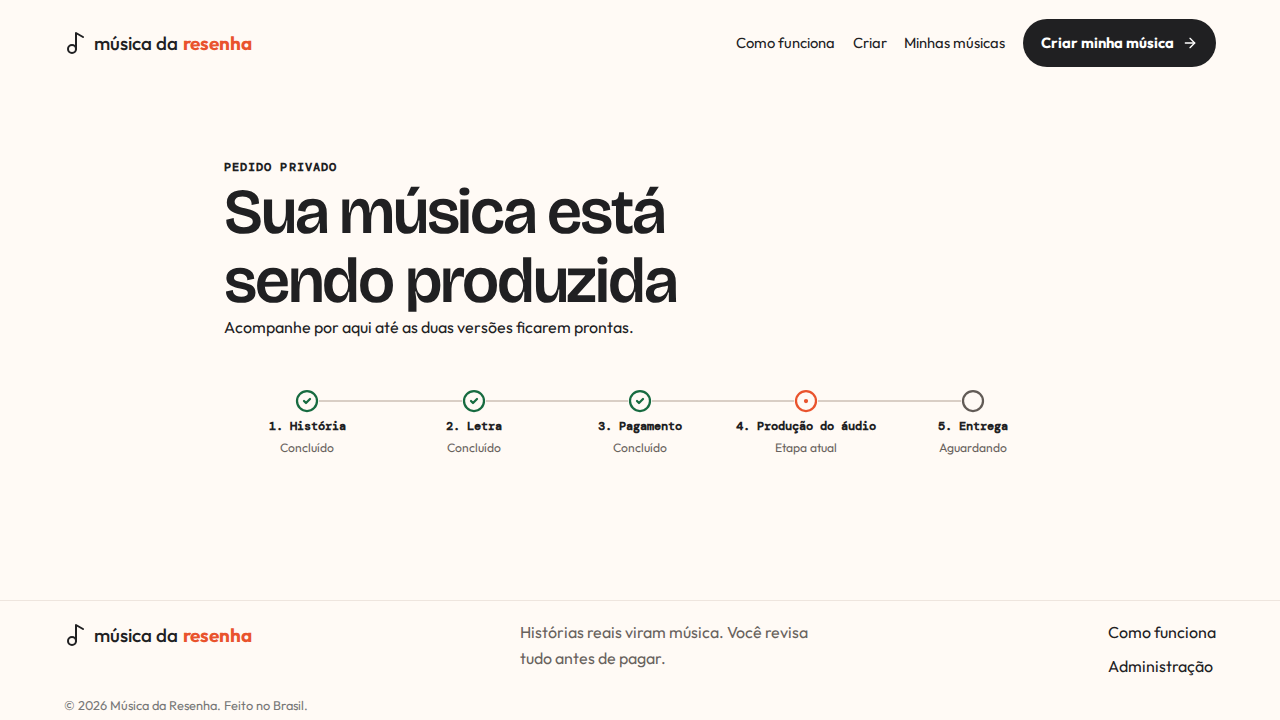
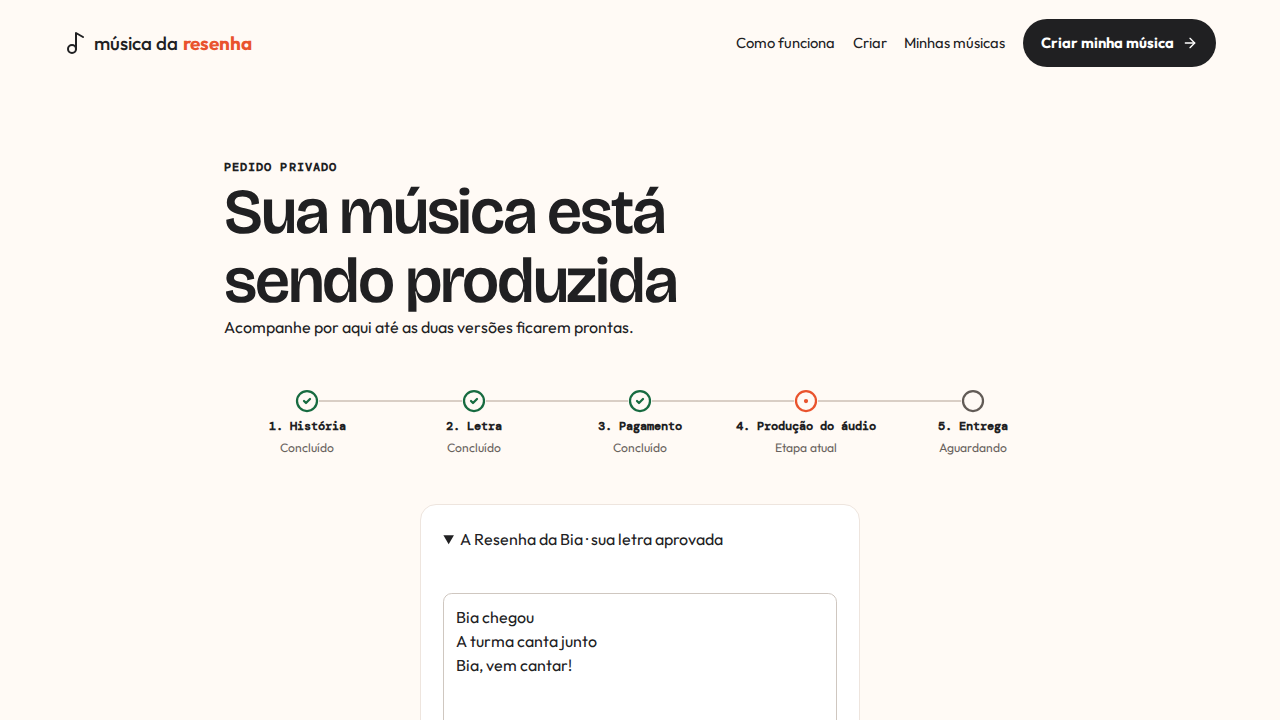
fix(web): complete visual audit evidence

diff --git a/apps/web/e2e/mvp-operable-t7.spec.ts b/apps/web/e2e/mvp-operable-t7.spec.ts
@@ -205,29 +205,137 @@ test('estado de erro mantém um único conteúdo principal e um único título',
 });
 
 test('captura os estados finais nos viewports da auditoria', async ({ page }) => {
+  const visualLyric = {
+    number: 1,
+    kind: 'approved',
+    approvedAt: '2026-09-04T12:00:00.000Z',
+    content: {
+      title: 'A Resenha da Bia',
+      fullLyrics: 'Bia chegou\nA turma canta junto\nBia, vem cantar!',
+    },
+  };
+  const visualOrders = {
+    'order-story-visual': { status: 'story_completed', lyrics: [], audio: [] },
+    'order-generating-visual': { status: 'lyrics_generating', lyrics: [], audio: [] },
+    'order-ready-visual': {
+      status: 'lyrics_ready',
+      lyrics: [{ ...visualLyric, kind: 'generated', approvedAt: null }],
+      audio: [],
+    },
+    'order-approved-visual': { status: 'lyrics_approved', lyrics: [visualLyric], audio: [] },
+    'order-production-visual': { status: 'audio_generating', lyrics: [visualLyric], audio: [] },
+    'order-delivered-visual': {
+      status: 'delivered',
+      lyrics: [visualLyric],
+      audio: [
+        { variant: 1, status: 'completed' },
+        { variant: 2, status: 'completed' },
+      ],
+    },
+    'order-failed-visual': { status: 'failed', lyrics: [visualLyric], audio: [] },
+  } as const;
+  await page.route('**/api/v1/**', (route) => {
+    const path = new URL(route.request().url()).pathname;
+    if (path.endsWith('/analytics/beacon')) return route.fulfill({ json: { accepted: true } });
+    if (path.endsWith('/products'))
+      return route.fulfill({
+        json: [{ type: 'friend_roast', name: 'Música da Resenha', priceCents: 4990, active: true }],
+      });
+    const publicId = path.match(/\/orders\/([^/]+)$/)?.[1];
+    const order = publicId ? visualOrders[publicId as keyof typeof visualOrders] : undefined;
+    if (order)
+      return route.fulfill({
+        json: {
+          order: { publicId, status: order.status, priceCents: 4990 },
+          lyrics: order.lyrics,
+          audio: order.audio,
+        },
+      });
+    return route.fulfill({ status: 404, json: { error: { message: 'Rota visual ausente' } } });
+  });
+
   await page.emulateMedia({ reducedMotion: 'reduce' });
   await page.setViewportSize({ width: 1280, height: 720 });
   await page.goto('/');
+  await expect(page.getByRole('heading', { name: /sua história merece/i })).toBeVisible();
   await page.screenshot({ path: '../../docs/audits/mvp-operavel/after/01-entrada-desktop.png' });
 
-  await page.route('**/api/v1/orders/order-visual-1', (route) =>
-    route.fulfill({
-      json: {
-        order: { publicId: 'order-visual-1', status: 'audio_generating', priceCents: 4990 },
-        lyrics: [],
-        audio: [],
-      },
-    }),
-  );
-  await page.goto('/pedido/order-visual-1');
+  await page.goto('/criar');
+  await expect(page.getByRole('heading', { name: /conte a resenha/i })).toBeVisible();
+  await page.screenshot({
+    path: '../../docs/audits/mvp-operavel/after/02-formulario-vazio-desktop.png',
+  });
+
+  await page.getByRole('button', { name: /gerar minha letra/i }).click();
+  await expect(page.getByLabel(/qual é a ocasião/i)).toHaveAttribute('aria-invalid', 'true');
+  await page.screenshot({ path: '../../docs/audits/mvp-operavel/after/03-validacao-desktop.png' });
+
+  await page.getByLabel(/para quem é a música/i).fill('Bia');
+  await page.getByLabel(/qual é a ocasião/i).fill('Aniversário');
+  await page.getByLabel(/^seu nome$/i).fill('Nina');
+  await page.getByLabel(/^seu e-mail$/i).fill('nina@example.test');
+  await page
+    .getByLabel(/histórias, apelidos/i)
+    .fill('Sempre chega cantando\nTodo churrasco vira show');
+  await page.getByLabel(/aceito os termos/i).check();
+  await expect(page.getByRole('status')).toContainText('Rascunho salvo');
+  await page.screenshot({
+    path: '../../docs/audits/mvp-operavel/after/04-formulario-preenchido-desktop.png',
+  });
+
+  await page.goto('/criar/letra?pedido=order-story-visual');
+  await expect(page.getByRole('button', { name: /criar letra agora/i })).toBeVisible();
+  await page.screenshot({
+    path: '../../docs/audits/mvp-operavel/after/05-geracao-pronta-para-iniciar-desktop.png',
+  });
+
+  await page.goto('/criar/letra?pedido=order-generating-visual');
+  await expect(page.getByRole('status')).toContainText('Criando sua letra');
+  await page.screenshot({
+    path: '../../docs/audits/mvp-operavel/after/06-geracao-loading-desktop.png',
+  });
+
+  await page.goto('/criar/letra?pedido=order-ready-visual');
+  await expect(page.getByRole('textbox', { name: /letra da música/i })).toBeVisible();
+  await expect(page.getByRole('button', { name: /salvar nova versão/i })).toBeInViewport();
+  await expect(page.getByRole('button', { name: /aprovar letra/i })).toBeInViewport();
+  await page.screenshot({
+    path: '../../docs/audits/mvp-operavel/after/07-revisao-letra-desktop.png',
+  });
+
+  await page.goto('/criar/checkout?pedido=order-approved-visual');
+  await expect(page.getByRole('button', { name: /pagar com mercado pago/i })).toBeVisible();
+  await page.screenshot({ path: '../../docs/audits/mvp-operavel/after/08-checkout-desktop.png' });
+
+  await page.goto('/pedido/order-production-visual');
   await expect(page.getByRole('heading', { name: /sendo produzida/i })).toBeVisible();
   await page.screenshot({
     path: '../../docs/audits/mvp-operavel/after/09-processamento-desktop.png',
   });
 
+  await page.goto('/pedido/order-delivered-visual');
+  await expect(page.getByRole('heading', { name: /música está pronta/i })).toBeVisible();
+  await page.screenshot({ path: '../../docs/audits/mvp-operavel/after/10-sucesso-desktop.png' });
+
+  await page.goto('/pedido/order-failed-visual');
+  await expect(page.getByRole('heading', { name: /problema na produção/i })).toBeVisible();
+  await page.screenshot({ path: '../../docs/audits/mvp-operavel/after/11-erro-desktop.png' });
+
+  await page.evaluate(() => window.localStorage.removeItem('resenha:my-orders'));
+  await page.goto('/minhas-musicas');
+  await expect(page.getByRole('heading', { name: /ainda não criou/i })).toBeVisible();
+  await page.screenshot({ path: '../../docs/audits/mvp-operavel/after/12-vazio-desktop.png' });
+
+  await page.evaluate(() => window.localStorage.removeItem('resenha:story-draft'));
   await page.setViewportSize({ width: 390, height: 844 });
   await page.goto('/');
+  await expect(page.getByRole('heading', { name: /sua história merece/i })).toBeVisible();
   await page.screenshot({ path: '../../docs/audits/mvp-operavel/after/13-entrada-mobile.png' });
   await page.getByRole('button', { name: 'Abrir menu' }).click();
+  await expect(page.getByRole('button', { name: 'Fechar menu' })).toBeVisible();
   await page.screenshot({ path: '../../docs/audits/mvp-operavel/after/14-menu-mobile.png' });
+
+  await page.goto('/criar');
+  await expect(page.getByRole('heading', { name: /conte a resenha/i })).toBeVisible();
+  await page.screenshot({ path: '../../docs/audits/mvp-operavel/after/15-formulario-mobile.png' });
 });

diff --git a/apps/web/src/styles.css b/apps/web/src/styles.css
@@ -488,7 +488,7 @@ h2 {
 }
 .lyrics-editor {
   width: 100%;
-  min-height: 430px;
+  min-height: clamp(240px, 38vh, 430px);
   line-height: 1.5;
   margin: 1.5rem 0;
 }

diff --git a/docs/audits/mvp-operavel/final.md b/docs/audits/mvp-operavel/final.md
@@ -8,14 +8,25 @@ Data: 2026-09-04. Escopo: jornada pública, borda HTTP, retomada assíncrona e o
 
 ## Comparação visual
 
-As imagens usam os mesmos estados e viewports do baseline. A comparação foi feita lado a lado em Chromium antes deste veredito.
+As 15 imagens finais repetem os mesmos estados, nomes e viewports do baseline. Cada par foi combinado lado a lado e inspecionado em Chromium antes deste veredito.
 
-| Estado              | Antes                                                  | Depois                                                 | Resultado                                                                         |
-| ------------------- | ------------------------------------------------------ | ------------------------------------------------------ | --------------------------------------------------------------------------------- |
-| Entrada 1280 × 720  | ![Entrada antes](before/01-entrada-desktop.png)        | ![Entrada depois](after/01-entrada-desktop.png)        | Identidade preservada; display ganhou espaçamento e line-height legíveis.         |
-| Produção 1280 × 720 | ![Produção antes](before/09-processamento-desktop.png) | ![Produção depois](after/09-processamento-desktop.png) | Rota abre no topo; título, mensagem e faixa de cinco etapas cabem na viewport.    |
-| Entrada 390 × 844   | ![Mobile antes](before/13-entrada-mobile.png)          | ![Mobile depois](after/13-entrada-mobile.png)          | Sem overflow ou CTA cortado; alvo primário mede ao menos 44 × 44 px.              |
-| Menu 390 × 844      | ![Menu antes](before/14-menu-mobile.png)               | ![Menu depois](after/14-menu-mobile.png)               | Menu ocupa largura útil, mantém alvos grandes e deixa o estado aberto inequívoco. |
+| Estado                    | Antes                                                                       | Depois                                                                      | Resultado                                                                      |
+| ------------------------- | --------------------------------------------------------------------------- | --------------------------------------------------------------------------- | ------------------------------------------------------------------------------ |
+| 01. Entrada desktop       | ![Entrada antes](before/01-entrada-desktop.png)                             | ![Entrada depois](after/01-entrada-desktop.png)                             | Identidade preservada; display ganhou espaçamento e hierarquia legíveis.       |
+| 02. Formulário vazio      | ![Formulário vazio antes](before/02-formulario-vazio-desktop.png)           | ![Formulário vazio depois](after/02-formulario-vazio-desktop.png)           | Título e campos têm separação clara; progresso continua visível.               |
+| 03. Validação             | ![Validação antes](before/03-validacao-desktop.png)                         | ![Validação depois](after/03-validacao-desktop.png)                         | Primeiro erro recebe foco visível e cada mensagem descreve seu controle.       |
+| 04. Formulário preenchido | ![Formulário preenchido antes](before/04-formulario-preenchido-desktop.png) | ![Formulário preenchido depois](after/04-formulario-preenchido-desktop.png) | Conteúdo, consentimentos e CTA permanecem legíveis no fim do formulário.       |
+| 05. Pronto para gerar     | ![Geração pronta antes](before/05-geracao-pronta-para-iniciar-desktop.png)  | ![Geração pronta depois](after/05-geracao-pronta-para-iniciar-desktop.png)  | A etapa agora é 2 de 5, com título e ação inequívocos.                         |
+| 06. Geração em andamento  | ![Geração antes](before/06-geracao-loading-desktop.png)                     | ![Geração depois](after/06-geracao-loading-desktop.png)                     | Status persistente explica que reload não interrompe nem reinicia a criação.   |
+| 07. Revisão da letra      | ![Revisão antes](before/07-revisao-letra-desktop.png)                       | ![Revisão depois](after/07-revisao-letra-desktop.png)                       | Editor preserva espaço de trabalho e os dois CTAs cabem em 1280 × 720.         |
+| 08. Checkout              | ![Checkout antes](before/08-checkout-desktop.png)                           | ![Checkout depois](after/08-checkout-desktop.png)                           | Preço, pacote e pagamento formam uma hierarquia única e legível.               |
+| 09. Processamento         | ![Processamento antes](before/09-processamento-desktop.png)                 | ![Processamento depois](after/09-processamento-desktop.png)                 | Rota abre no topo; título, mensagem e faixa de cinco etapas cabem na viewport. |
+| 10. Sucesso               | ![Sucesso antes](before/10-sucesso-desktop.png)                             | ![Sucesso depois](after/10-sucesso-desktop.png)                             | Cinco etapas concluídas e CTA para as duas versões ficam juntos.               |
+| 11. Erro                  | ![Erro antes](before/11-erro-desktop.png)                                   | ![Erro depois](after/11-erro-desktop.png)                                   | Mensagem não promete nova geração e mantém o acompanhamento honesto.           |
+| 12. Histórico vazio       | ![Vazio antes](before/12-vazio-desktop.png)                                 | ![Vazio depois](after/12-vazio-desktop.png)                                 | Escopo por navegador e CTA de criação aparecem sem heading comprimido.         |
+| 13. Entrada mobile        | ![Entrada mobile antes](before/13-entrada-mobile.png)                       | ![Entrada mobile depois](after/13-entrada-mobile.png)                       | Sem overflow ou CTA cortado; alvo primário mede ao menos 44 × 44 px.           |
+| 14. Menu mobile           | ![Menu antes](before/14-menu-mobile.png)                                    | ![Menu depois](after/14-menu-mobile.png)                                    | Menu ocupa largura útil, trava scroll e expõe a ação principal.                |
+| 15. Formulário mobile     | ![Formulário mobile antes](before/15-formulario-mobile.png)                 | ![Formulário mobile depois](after/15-formulario-mobile.png)                 | Título refluído, campos de uma coluna e texto sem colisão em 390 × 844.        |
 
 ## Fechamento dos achados
 

diff --git a/.specs/features/mvp-operavel/tasks.md b/.specs/features/mvp-operavel/tasks.md
@@ -326,6 +326,22 @@ T8
 
 **Gate**: Quick
 
+### F5: Complete equivalent visual evidence
+
+**Status**: Complete
+**What**: Repeat every baseline state in the final audit and keep the lyric-review actions visible in the audited desktop viewport.
+**Where**: public journey Playwright evidence, styles and final audit
+**Depends on**: F4
+**Requirement**: A11Y-04, TEST-03, TEST-04
+**Done when**:
+
+- [x] The final audit contains all 15 baseline names with matching desktop/mobile viewports.
+- [x] Each final state is rendered from deterministic public fixtures and has an observable assertion before capture.
+- [x] Save and approve remain inside the 1280 × 720 review viewport.
+- [x] Before/after pairs are inspected together and their findings are recorded in the audit.
+
+**Gate**: Build
+
 ## Diagram-Definition Cross-Check
 
 | Diagram edge        | Matching dependency | Result                             |
@@ -354,3 +370,4 @@ T8
 | F2   | Public journey         | RTL/Playwright for resumability and delivered assets                    | Full  | ✅     |
 | F3   | Accessibility          | Computed contrast and all-route heading assertions                      | Build | ✅     |
 | F4   | Operations/docs        | Logger description matches bounded runtime context                      | Quick | ✅     |
+| F5   | Visual evidence        | Fifteen paired captures and lyric-review actions in viewport            | Build | ✅     |

diff --git a/.specs/features/mvp-operavel/spec.md b/.specs/features/mvp-operavel/spec.md
@@ -230,7 +230,7 @@ A aplicação possui as peças do fluxo de música personalizada, mas ainda acei
 | A11Y-01        | Navegação acessível    | T7             | Done   |
 | A11Y-02        | Navegação acessível    | T7, F3         | Done   |
 | A11Y-03        | Navegação acessível    | T7             | Done   |
-| A11Y-04        | Navegação acessível    | T7             | Done   |
+| A11Y-04        | Navegação acessível    | T7, F5         | Done   |
 | A11Y-05        | Navegação acessível    | T7, F3         | Done   |
 | A11Y-06        | Navegação acessível    | T7             | Done   |
 | A11Y-07        | Navegação acessível    | T7             | Done   |
@@ -243,8 +243,8 @@ A aplicação possui as peças do fluxo de música personalizada, mas ainda acei
 | SAFE-07        | Borda pública          | T3             | Done   |
 | TEST-01        | Prova de comportamento | T7, T8         | Done   |
 | TEST-02        | Prova de comportamento | T8             | Done   |
-| TEST-03        | Prova de comportamento | T7, T8         | Done   |
-| TEST-04        | Prova de comportamento | T8             | Done   |
+| TEST-03        | Prova de comportamento | T7, T8, F5     | Done   |
+| TEST-04        | Prova de comportamento | T8, F5         | Done   |
 
 **Coverage:** 45 total, 45 mapped to tasks, 0 pending design.
 
